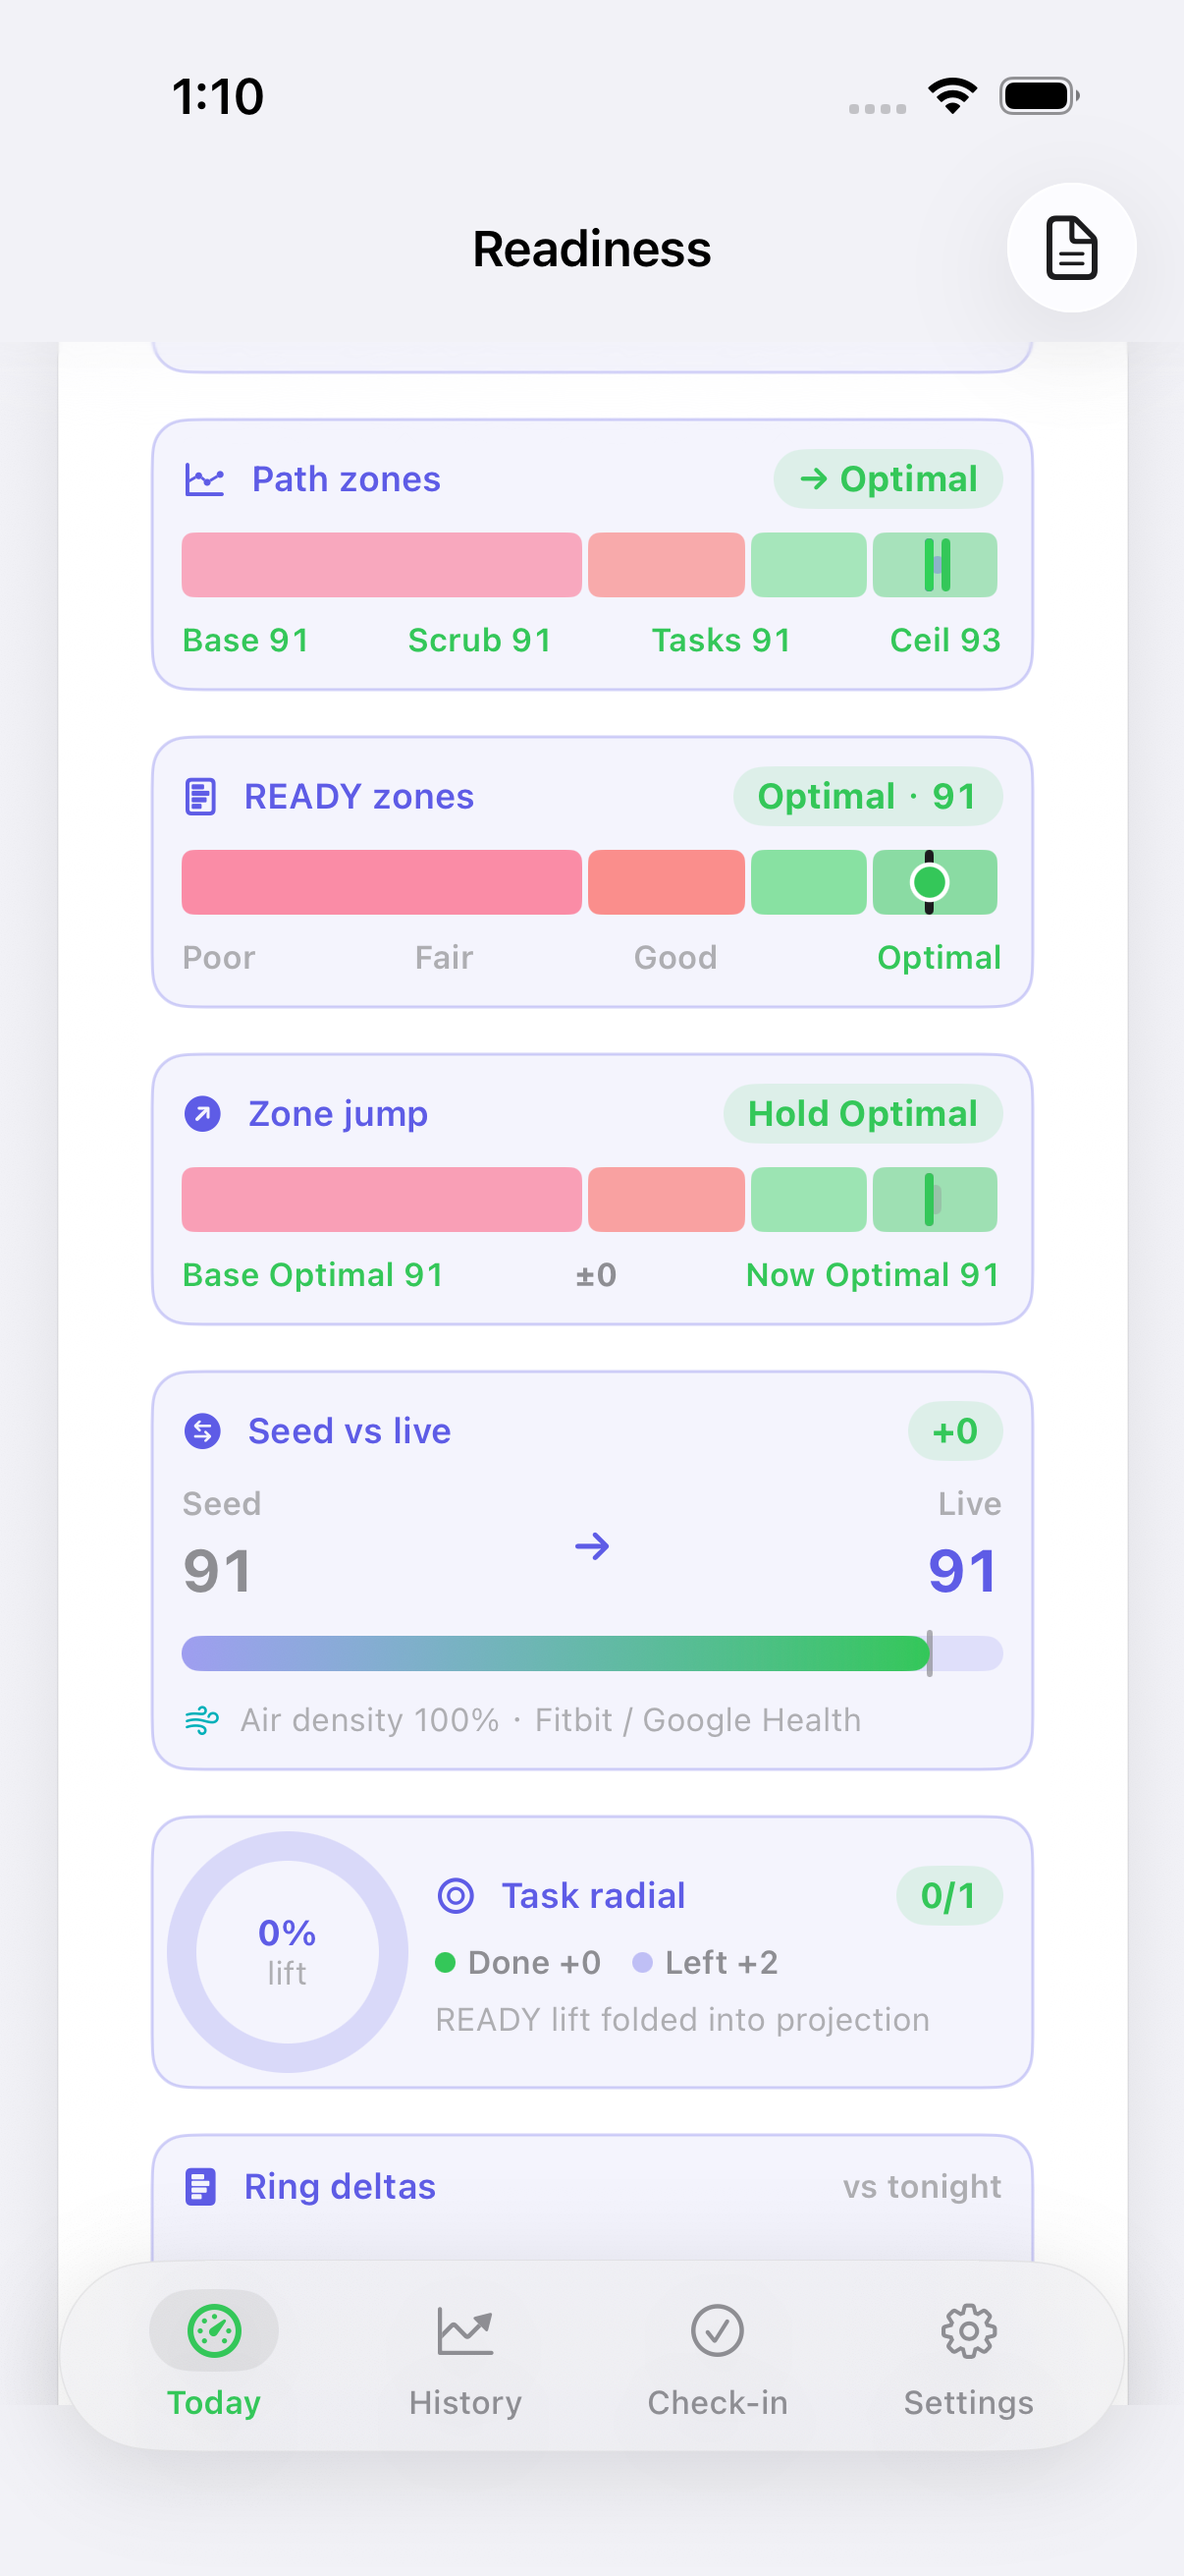
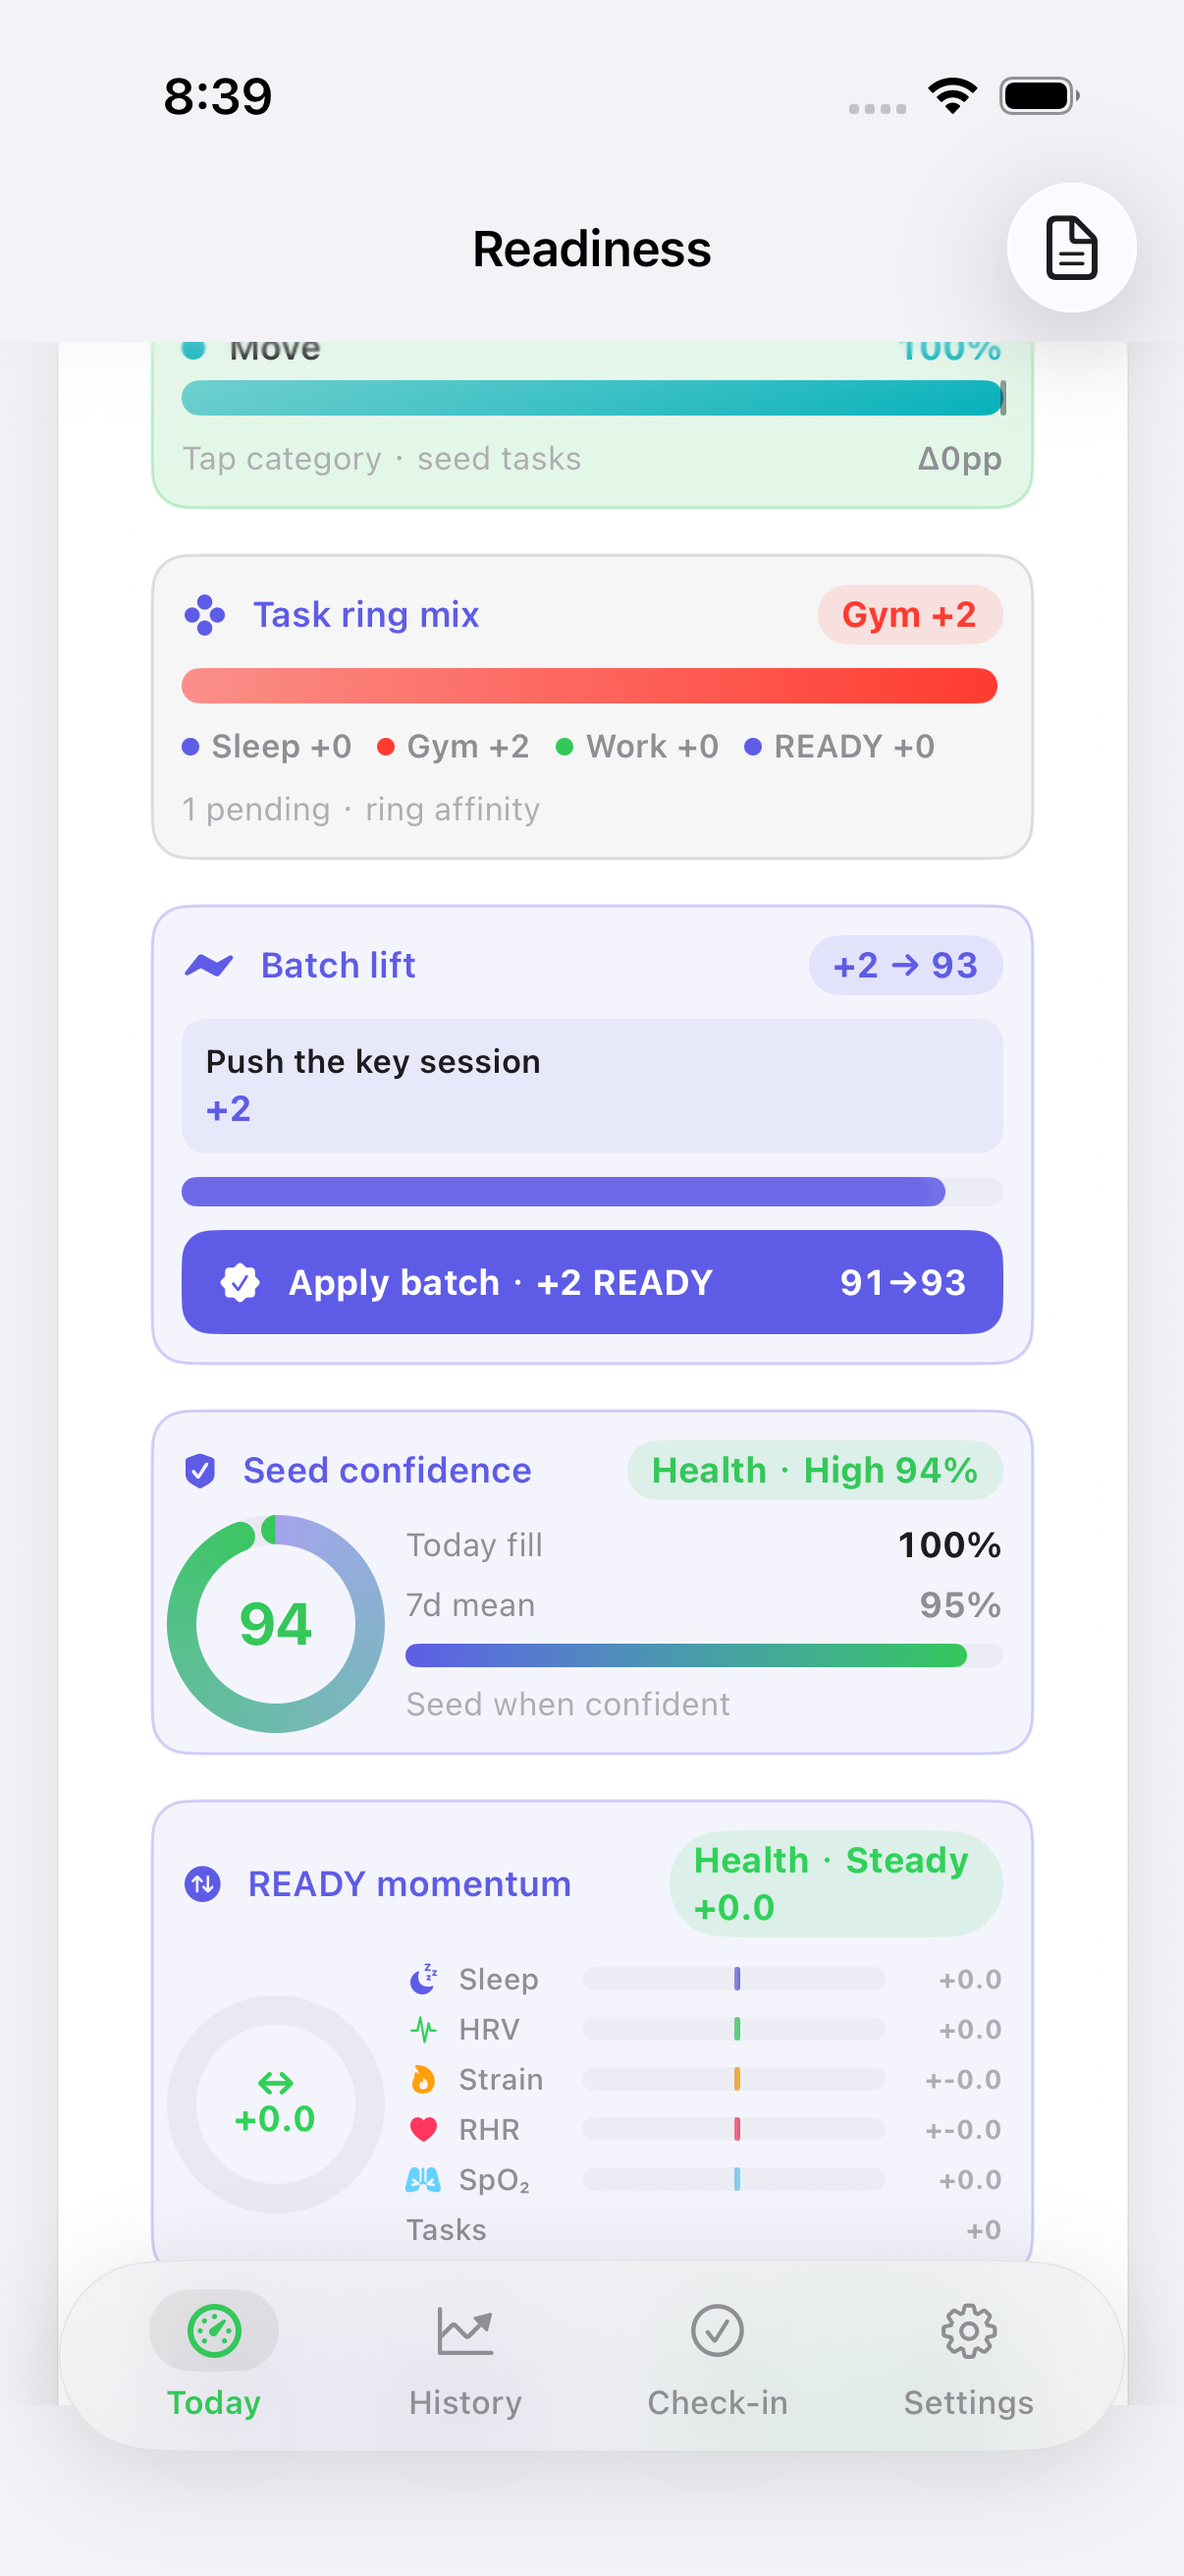
Honest #737: Simulator task ring mix (WHOOP wells) (#767)

diff --git a/ReadinessTracker/Views/WhoopFeatures/ReadinessLoadSimulatorCard.swift b/ReadinessTracker/Views/WhoopFeatures/ReadinessLoadSimulatorCard.swift
@@ -2705,7 +2705,7 @@ struct ReadinessLoadSimulatorCard: View {
 
 
 
-    /// Honest #601: task ring mix — pending READYΔ attributed to Sleep/Gym/Work (richer sim/tasks graphics).
+    /// Honest #601 / #737: task ring mix — pending READYΔ attributed to Sleep/Gym/Work (WHOOP wells; richer sim/tasks graphics).
     @ViewBuilder
     private var taskRingMix: some View {
         if tasks.isEmpty {
@@ -2744,6 +2744,11 @@ struct ReadinessLoadSimulatorCard: View {
         let top = groups.enumerated().max(by: { lifts[$0.offset] < lifts[$1.offset] })
         let verb = pending.isEmpty ? "Cleared" : (top.map { $0.element.label } ?? "Mixed")
         let tone = top.map { $0.element.color } ?? accent
+        let ringsIsActive = !completedTaskIDs.isEmpty
+        let allChecked = pending.isEmpty
+        let wellTone: Color = ringsIsActive
+            ? (allChecked ? RTColor.optimal : accent)
+            : RTColor.secondaryText
         return VStack(alignment: .leading, spacing: 8) {
             HStack(spacing: 8) {
                 Image(systemName: "circle.grid.cross.fill")
@@ -2796,10 +2801,10 @@ struct ReadinessLoadSimulatorCard: View {
                 .foregroundStyle(RTColor.tertiaryText)
         }
         .padding(10)
-        .background(accent.opacity(0.07), in: RoundedRectangle(cornerRadius: 12, style: .continuous))
+        .background(wellTone.opacity(ringsIsActive ? 0.14 : 0.08), in: RoundedRectangle(cornerRadius: 12, style: .continuous))
         .overlay(
             RoundedRectangle(cornerRadius: 12, style: .continuous)
-                .stroke(accent.opacity(0.28), lineWidth: 1)
+                .stroke(wellTone.opacity(0.28), lineWidth: 1)
         )
         .accessibilityIdentifier(SurfaceID.readinessSimulatorTaskRingMix)
         .accessibilityLabel("Task ring mix \(verb)")

diff --git a/ReadinessTracker/Design/Theme.swift b/ReadinessTracker/Design/Theme.swift
@@ -401,7 +401,7 @@ enum SurfaceID {
     static let readinessSimulatorReadyHeadroom = "sim.load.ready.headroom"  // Honest #595 / #734
     static let readinessSimulatorReadyBurndown = "sim.load.ready.burndown"  // Honest #597 / #735
     static let readinessSimulatorGHTriad = "sim.load.gh.triad"  // Honest #599 / #736
-    static let readinessSimulatorTaskRingMix = "sim.load.task.rings"  // Honest #601
+    static let readinessSimulatorTaskRingMix = "sim.load.task.rings"  // Honest #601 / #737
     static let readinessSimulatorBatchLift = "sim.load.tasks.batch.lift"  // Honest #603
     static let readinessSimulatorSeedConfidence = "sim.load.seed.confidence"  // Honest #605
     static let readinessSimulatorReadyMomentum = "sim.load.ready.momentum"  // Honest #607

diff --git a/ReadinessTrackerUITests/SurfacesUITests.swift b/ReadinessTrackerUITests/SurfacesUITests.swift
@@ -10721,7 +10721,7 @@ final class SurfacesUITests: XCTestCase {
         saveShot("verify-simulator-gh-triad.png")
 
 
-        // Honest #601: task ring mix
+        // Honest #601 / #737: task ring mix (WHOOP wells)
         let ringMix = app.descendants(matching: .any)["sim.load.task.rings"].firstMatch
         XCTAssertTrue(ringMix.waitForExistence(timeout: 5)
                       || app.descendants(matching: .any)["sim.load.gh.triad"].firstMatch.exists

diff --git a/.audit/decision-log-2026-11-04.md b/.audit/decision-log-2026-11-04.md
@@ -265,3 +265,7 @@
 | 19:31 HKT | Honest #736 Simulator GH triad | prove | started UITest /tmp/RT-DD736; model=deepseek-flash | mid-ship |
 | 19:50 HKT | #736 Simulator GH triad | prove | UITest suite green /tmp/RT-DD736 (769.576s, 0 failures); model=deepseek-flash |
 | 19:50 HKT | #736 Simulator GH triad | land | proof PNG + receipt; SID sim.load.gh.triad; PR squash next; model=deepseek-flash |
+| 20:27 HKT | Honest #737 Simulator task ring mix | model=deepseek-flash | restyle existing sim.load.task.rings after GH triad #736; WHOOP ghost/active wells; mechanical pattern-copy of #736 wells applied locally (no separate model iterate needed) | mid-ship |
+| 20:27 HKT | Honest #737 Simulator task ring mix | prove | started UITest /tmp/RT-DD737; model=deepseek-flash | mid-ship |
+| 20:45 HKT | #737 Simulator task ring mix | prove | UITest suite green /tmp/RT-DD737 (773.239s, 0 failures); model=deepseek-flash |
+| 20:46 HKT | #737 Simulator task ring mix | land | proof PNG + receipt; SID sim.load.task.rings; PR squash next; model=deepseek-flash |

diff --git a/.audit/features/readiness-simulator-task-ring-mix.md b/.audit/features/readiness-simulator-task-ring-mix.md
@@ -1,5 +1,6 @@
-# Honest #601: Simulator task ring mix
+# Honest #601 / #737: Simulator task ring mix
 
-Pending READYΔ by Sleep/Gym/Work/READY affinity (richer sim/tasks).
-SurfaceID: `sim.load.task.rings`
+Pending READYΔ by Sleep/Gym/Work/READY affinity (WHOOP wells; richer sim/tasks).
+Idle (no tasks checked) = ghost/hairline 8%/28%; active (some checked, not all) = 14% fill + 28% hairline with accent; all-checked = 14% fill + 28% hairline with optimal.
+SurfaceID: `sim.load.task.rings` (existing; no new SID)
 Proof: `.audit/verify-simulator-task-ring-mix.png`

diff --git a/.cursor/skills/verify-readiness-tracker/features/readiness-simulator-task-ring-mix.md b/.cursor/skills/verify-readiness-tracker/features/readiness-simulator-task-ring-mix.md
@@ -1,5 +1,6 @@
-# Honest #601: Simulator task ring mix
+# Honest #601 / #737: Simulator task ring mix (WHOOP wells)
 
 Pending READYΔ by Sleep/Gym/Work/READY affinity.
+Idle (no tasks checked) = ghost/hairline 8%/28%; active (some checked, not all) = 14% fill + 28% hairline with accent; all-checked = 14% fill + 28% hairline with optimal.
 SurfaceID: `sim.load.task.rings`
 Proof: `.audit/verify-simulator-task-ring-mix.png`

diff --git a/.audit/readiness-simulator-task-ring-mix.md b/.audit/readiness-simulator-task-ring-mix.md
@@ -1,2 +1,3 @@
-Honest #601: Simulator task ring mix
+Honest #601 / #737: Simulator task ring mix (WHOOP wells)
 SurfaceID sim.load.task.rings
+Proof: .audit/verify-simulator-task-ring-mix.png
